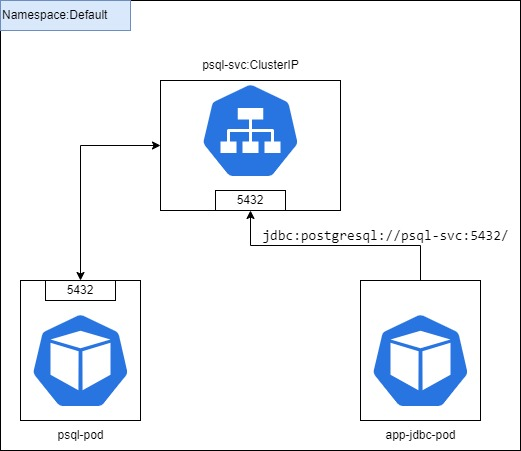
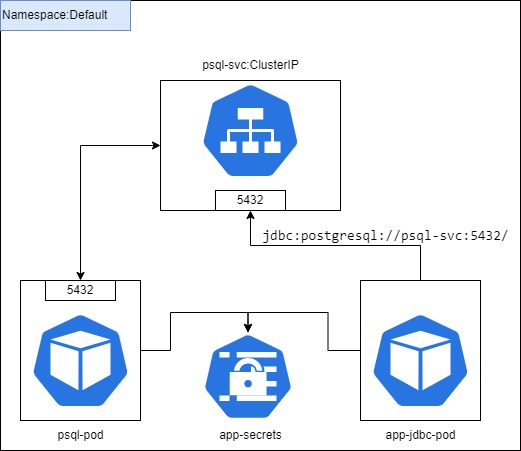
Puting the password into a secret

Changed region(s): [[0.3685, 0.6829, 0.5835, 0.9933], [0.6142, 0.6829, 0.6449, 0.7761]]

diff --git a/37-svc-cluster-ip/app/src/psql/App.java b/37-svc-cluster-ip/app/src/psql/App.java
@@ -11,17 +11,15 @@ public class App {
     public static void main(String[] args) throws Exception {
 
         String url = System.getenv("POSTGRES_URL");
-        System.out.println("POSTGRES_URL: " + url);
 
         String user = System.getenv("POSTGRES_USER");
-        System.out.println("POSTGRES_USER: " + user);
+        System.out.println("POSTGRES_USER: '" + user + "'");
 
         String password = System.getenv("POSTGRES_PASSWORD");
 
         String timeout = System.getenv("TIMEOUT");
 
         String runs = System.getenv("RUNS");
-        System.out.println("RUNS: " + runs);
 
         Class.forName("org.postgresql.Driver");
         System.out.println("Connecting to psql...");
@@ -46,6 +44,8 @@ public class App {
 
                 Thread.sleep(Integer.valueOf(timeout));
             }
+
+            System.exit(0);
         } catch (SQLException error) {
             System.err.println(error.getMessage());
         }
